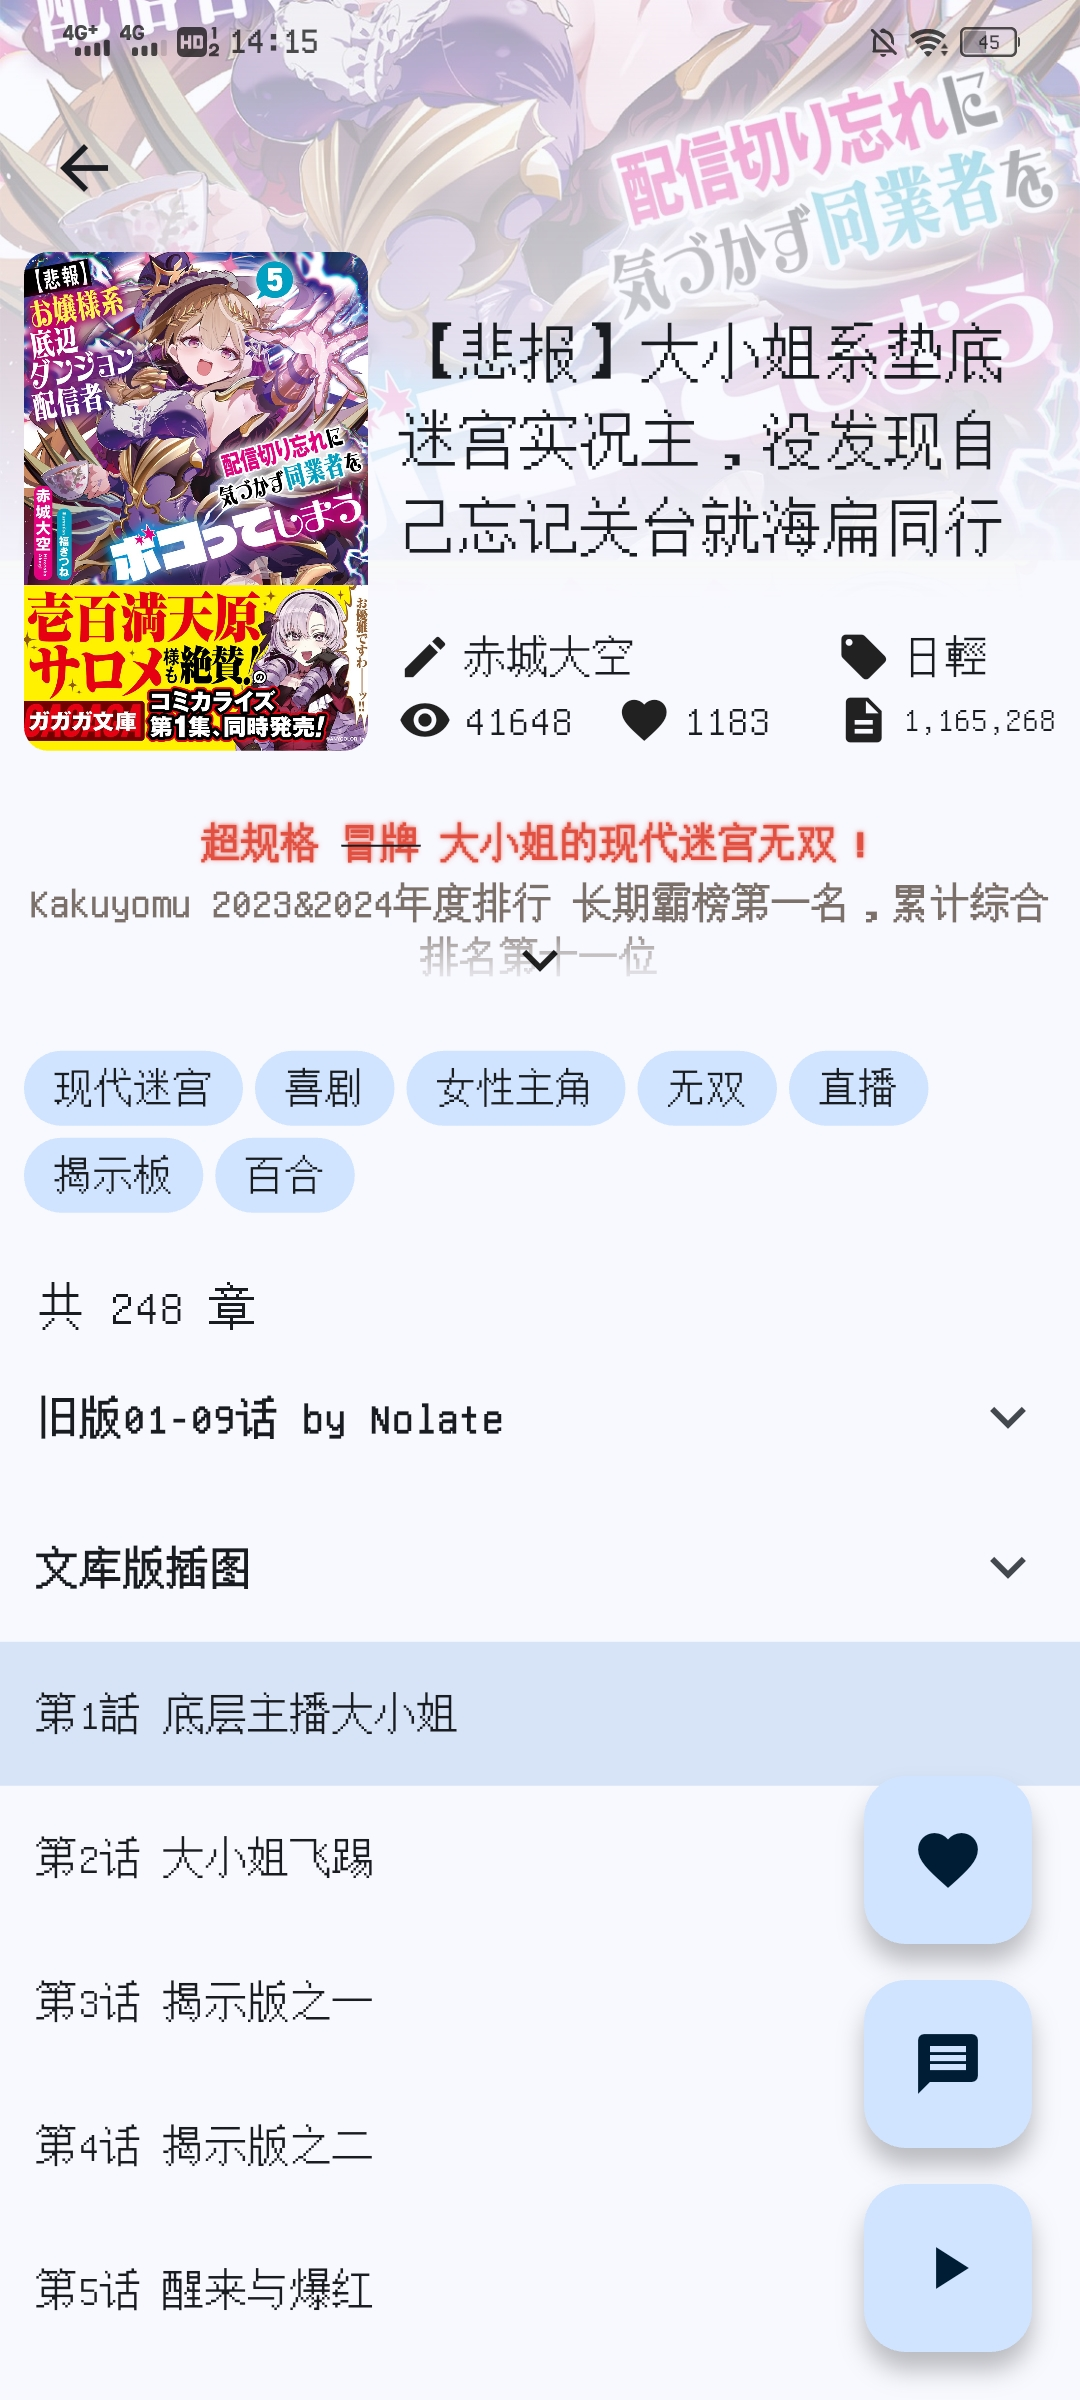
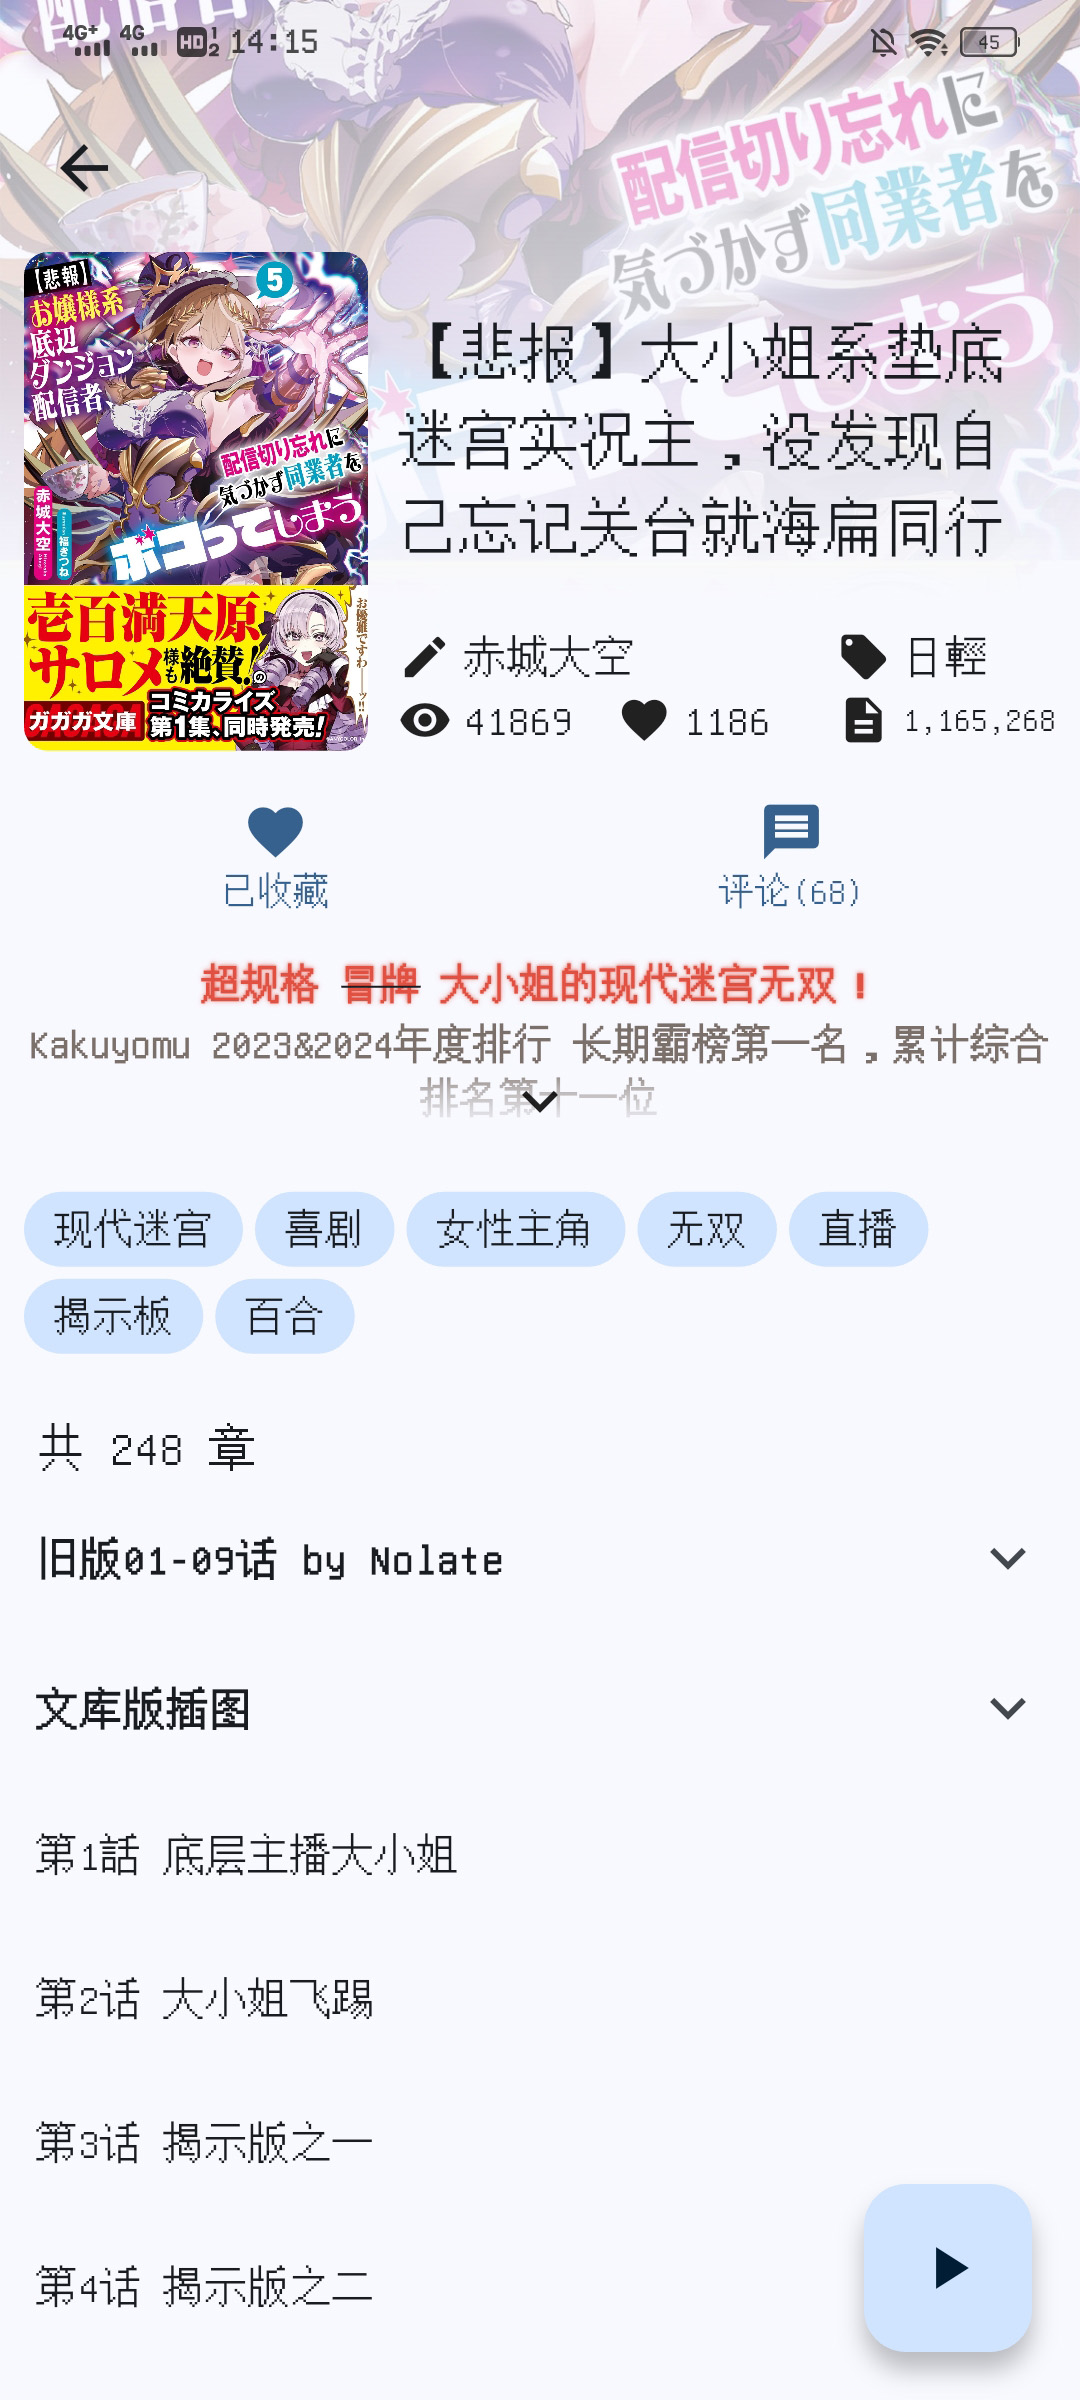
详情页样式修改

diff --git a/lib/routes/detail.dart b/lib/routes/detail.dart
@@ -1,17 +1,18 @@
 import 'package:flutter/material.dart';
 import 'package:flutter/services.dart';
+import 'image.dart';
 import '../common/custom_html.dart';
 import '../common/format.dart';
 import '../common/network.dart';
 import '../models/detail.dart';
-import '../widgets/chapter_list.dart';
-import '../widgets/comment_list.dart';
-import '../widgets/expandable_text.dart';
 import '../widgets/icon_text.dart';
 import '../widgets/mask_image.dart';
 import '../widgets/ratio_image.dart';
+import '../widgets/chapter_list.dart';
+import '../widgets/comment_list.dart';
 import '../widgets/tooltip_button.dart';
-import 'image.dart';
+import '../widgets/expandable_text.dart';
+import '../widgets/controller_button.dart';
 
 // 书籍详情路由页
 class DetailPage extends StatefulWidget {
@@ -139,7 +140,9 @@ class _DetailPageState extends State<DetailPage> {
                           controller: _controller,
                           slivers: [
                             wBasicCard(), // 书籍基础信息
-                            wPadding(),
+                            wPadding(size: 8.0),
+                            wController(), // 书籍控件(收藏|评论)
+                            wPadding(size: 4.0),
                             wDescription(detail.description), // 书籍简介
                             wPadding(),
                             wTags(detail.tags), // 书籍标签
@@ -177,47 +180,6 @@ class _DetailPageState extends State<DetailPage> {
                                 ) : SizedBox.shrink();
                               },
                             ),
-                            // 收藏按钮
-                            ValueListenableBuilder(
-                              valueListenable: _favBtnLoading,
-                              builder: (context, loading, _) {
-                                return TooltipButton(
-                                  onPressed: () async {
-                                    if (!loading) {
-                                      _favBtnLoading.value = true;
-                                      int? result = await Esjzone().bookFavorite(detail.id);
-                                      if (result != null) {
-                                        detail = detail.copyWith(
-                                          isFavorite: !detail.isFavorite,
-                                          favorite: result,
-                                        );
-                                      }
-                                      _favBtnLoading.value = false;
-                                      setState(() => _future = _updateDetail(request: false));
-                                    }
-                                  },
-                                  tooltip: detail.isFavorite ? "取消收藏" : "收藏",
-                                  child: loading
-                                      ? SizedBox.square(
-                                    dimension: 20.0,
-                                    child: CircularProgressIndicator(strokeWidth: 3.0),
-                                  )
-                                      : (Icon(detail.isFavorite
-                                      ? Icons.favorite
-                                      : Icons.favorite_border)
-                                  ),
-                                );
-                              },
-                            ),
-                            // 评论按钮
-                            if (detail.comments != null) TooltipButton(
-                              onPressed: () {
-                                showCommentList(context, detail.comments!);
-                              },
-                              tooltip: "书籍评论",
-                              child: Icon(Icons.message),
-                            ),
-                            // 继续阅读按钮
                             if (detail.lastWatched != null && detail.lastWatched! >= 0) TooltipButton(
                               onPressed: () {
                                 if (detail.lastWatched != null && detail.lastWatched! > -1) {
@@ -247,8 +209,8 @@ class _DetailPageState extends State<DetailPage> {
   }
 
   // 组件间距封装
-  Widget wPadding() {
-    return SliverPadding(padding: const EdgeInsets.only(top: 20.0));
+  Widget wPadding({double size = 20.0}) {
+    return SliverPadding(padding: EdgeInsets.only(top: size));
   }
 
   // 通用包装
@@ -367,6 +329,50 @@ class _DetailPageState extends State<DetailPage> {
                 ],
               ),
             ),
+          ),
+        ],
+      ),
+    );
+  }
+
+  // 书籍控件
+  Widget wController() {
+    return sliverWidget(
+      child: Row(
+        mainAxisAlignment: MainAxisAlignment.spaceAround,
+        children: [
+          // 收藏按钮
+          ValueListenableBuilder(
+            valueListenable: _favBtnLoading,
+            builder: (context, loading, _) {
+              return ControllerButton(
+                loading: loading,
+                icon: detail.isFavorite
+                    ? Icons.favorite
+                    : Icons.favorite_border,
+                text: detail.isFavorite ? "已收藏" : "收藏",
+                onPressed: () async {
+                  if (!loading) {
+                    _favBtnLoading.value = true;
+                    int? result = await Esjzone().bookFavorite(detail.id);
+                    if (result != null) {
+                      detail = detail.copyWith(
+                        isFavorite: !detail.isFavorite,
+                        favorite: result,
+                      );
+                    }
+                    _favBtnLoading.value = false;
+                    setState(() => _future = _updateDetail(request: false));
+                  }
+                },
+              );
+            },
+          ),
+          // 评论按钮
+          ControllerButton(
+            icon: Icons.message,
+            text: detail.comments != null ? "评论(${detail.comments?.length})" : "无评论",
+            onPressed: () { if(detail.comments != null) showCommentList(context, detail.comments!); },
           ),
         ],
       ),

diff --git a/lib/widgets/controller_button.dart b/lib/widgets/controller_button.dart
@@ -1,0 +1,37 @@
+import 'package:flutter/material.dart';
+
+// 控件按钮(书籍详情)
+class ControllerButton extends StatelessWidget {
+  const ControllerButton({
+    super.key,
+    required this.icon,
+    required this.text,
+    required this.onPressed,
+    this.iconSize = 22.0,
+    this.fontSize = 12.0,
+    this.loading = false,
+  });
+  final IconData icon;
+  final String text;
+  final void Function()? onPressed;
+  final double iconSize;
+  final double fontSize;
+  final bool loading;
+
+  @override
+  Widget build(BuildContext context) {
+    return TextButton(
+      onPressed: onPressed,
+      child: loading
+          ? SizedBox.square(
+        dimension: iconSize,
+        child: CircularProgressIndicator(strokeWidth: 3.0))
+          : Column(
+        children: [
+          Icon(icon, size: iconSize),
+          Text(text, style: TextStyle(fontSize: fontSize)),
+        ],
+      ),
+    );
+  }
+}
